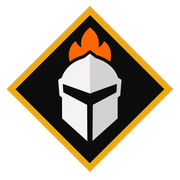
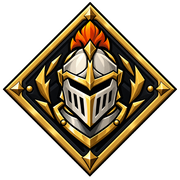
Use ornate knight emblem across the game

diff --git a/src/style.css b/src/style.css
@@ -25,21 +25,24 @@ button { color: inherit; }
 
 #loading { position: fixed; inset: 0; z-index: 100; display: grid; place-content: center; justify-items: center; gap: 22px; background: #08090a; transition: opacity .8s ease, visibility .8s; }
 #loading.ready { opacity: 0; visibility: hidden; }
-.loader-emblem, .crest { width: 64px; aspect-ratio: 1; display: grid; place-items: center; border: 1px solid #997343; transform: rotate(45deg); color: #eac68c; font-family: 'Cormorant Garamond', serif; font-weight: 700; font-size: 20px; }
-.loader-emblem::first-line, .crest { transform: rotate(45deg); }
+.loader-emblem { width: 88px; aspect-ratio: 1; object-fit: contain; filter: drop-shadow(0 10px 24px rgba(223,106,38,.32)); animation: emblem-pulse 1.8s ease-in-out infinite; }
 .loader-line { width: 210px; height: 1px; background: #2e2922; overflow: hidden; }
 .loader-line i { display: block; width: 40%; height: 100%; background: linear-gradient(90deg, transparent, var(--ember-bright), transparent); animation: load 1.6s infinite ease-in-out; }
 #loading span { color: #8d8375; font-size: 10px; letter-spacing: .34em; }
 @keyframes load { from { transform: translateX(-110%); } to { transform: translateX(360%); } }
+@keyframes emblem-pulse { 0%,100% { transform: scale(.96); opacity: .84; } 50% { transform: scale(1.04); opacity: 1; } }
 
 #landing { background: linear-gradient(90deg, rgba(4,5,5,.76), rgba(7,8,8,.15) 65%, rgba(4,5,5,.36)), radial-gradient(circle at 62% 42%, transparent, rgba(0,0,0,.38)); }
 .landing-vignette { position: absolute; inset: 0; box-shadow: inset 0 0 18vw 5vw #020303; pointer-events: none; }
-.landing-content { position: absolute; left: clamp(30px, 8vw, 160px); top: 50%; transform: translateY(-50%); width: min(700px, 84vw); text-shadow: 0 4px 30px #000; }
+.landing-content { position: absolute; left: clamp(30px, 8vw, 160px); top: 50%; transform: translateY(-50%); width: min(1120px, 88vw); text-shadow: 0 4px 30px #000; }
 .eyebrow { display: flex; align-items: center; gap: 12px; color: #c7a66d; font-size: 10px; font-weight: 700; letter-spacing: .36em; }
 .eyebrow span { display: inline-block; width: 42px; height: 1px; background: #9e7542; }
 h1 { margin: 19px 0 0; line-height: .72; font-family: 'Cormorant Garamond', Georgia, serif; letter-spacing: -.055em; }
 h1 small { display: block; color: #e4d8c5; font-size: clamp(48px, 6.6vw, 110px); font-weight: 500; }
 h1 strong { display: block; color: #f8f2e8; font-size: clamp(80px, 10vw, 174px); font-weight: 700; filter: drop-shadow(0 8px 14px #000); }
+.title-lockup { display: flex; align-items: center; gap: clamp(18px, 2.4vw, 42px); margin-top: 19px; }
+.title-lockup h1 { flex: 0 1 auto; margin: 0; }
+.brand-emblem { width: clamp(92px, 11vw, 174px); aspect-ratio: 1; flex: none; object-fit: contain; filter: drop-shadow(0 18px 35px rgba(0,0,0,.72)) drop-shadow(0 0 18px rgba(213,152,55,.18)); }
 .subtitle { margin: 20px 0 0 8px; color: #c99152; font-family: 'Cormorant Garamond', serif; font-size: 18px; letter-spacing: .72em; }
 .pitch { margin: 30px 0 36px; color: #c9c2b7; font-family: 'Cormorant Garamond', serif; font-size: clamp(18px, 1.5vw, 25px); line-height: 1.45; }
 .landing-actions { display: flex; flex-wrap: wrap; gap: 13px; max-width: 760px; }
@@ -119,7 +122,7 @@ input:focus, select:focus { border-color: #c18344; box-shadow: 0 0 0 2px rgba(19
 .citadel-team em { display: block; width: 100%; height: 100%; background: linear-gradient(90deg, #2874a8, #65c8ff); box-shadow: 0 0 9px #47baff; transition: width .25s; }
 .citadel-team.enemy em { margin-left: auto; background: linear-gradient(90deg, #ff705f, #a92c2c); box-shadow: 0 0 9px #ff4938; }
 .bars { position: absolute; left: 30px; bottom: max(30px, env(safe-area-inset-bottom)); display: flex; align-items: center; gap: 13px; filter: drop-shadow(0 3px 10px #000); }
-.crest { width: 42px; font-size: 13px; background: rgba(12,13,14,.8); }
+.crest { width: 48px; aspect-ratio: 1; object-fit: contain; filter: drop-shadow(0 3px 10px #000); }
 .bar-stack { width: min(280px, 36vw); display: grid; gap: 5px; }
 .health-bar, .stamina-bar { position: relative; height: 11px; overflow: hidden; transform: skewX(-17deg); background: rgba(4,5,5,.72); border: 1px solid rgba(255,255,255,.1); }
 .stamina-bar { width: 80%; height: 5px; }

diff --git a/index.html b/index.html
@@ -8,9 +8,13 @@
     <link rel="icon" type="image/png" sizes="32x32" href="/favicon-32x32.png" />
     <link rel="icon" type="image/png" sizes="16x16" href="/favicon-16x16.png" />
     <link rel="apple-touch-icon" sizes="180x180" href="/apple-touch-icon.png" />
+    <link rel="preload" as="image" href="/favicon.png" />
     <meta name="description" content="SMITE KNIGHT — сюжетные осады и масштабная война двух цитаделей прямо в браузере." />
     <meta property="og:title" content="SMITE KNIGHT — Ashen Siege" />
     <meta property="og:description" content="Прорви ворота, переживи град стрел и возьми Чёрную крепость." />
+    <meta property="og:image" content="https://smite.xedoc.ru/favicon.png" />
+    <meta name="twitter:card" content="summary" />
+    <meta name="twitter:image" content="https://smite.xedoc.ru/favicon.png" />
     <title>SMITE KNIGHT — Ashen Siege</title>
   </head>
   <body>
@@ -23,7 +27,10 @@
         <div class="landing-vignette"></div>
         <div class="landing-content">
           <div class="eyebrow"><span></span> БРАУЗЕРНАЯ ОСАДА <span></span></div>
-          <h1 id="game-title"><small>SMITE</small><strong>KNIGHT</strong></h1>
+          <div class="title-lockup">
+            <h1 id="game-title"><small>SMITE</small><strong>KNIGHT</strong></h1>
+            <img class="brand-emblem" src="/favicon.png" alt="" aria-hidden="true" />
+          </div>
           <p class="subtitle">ASHEN SIEGE</p>
           <p class="pitch">Проведи таран сквозь огонь. Сломай Чёрные врата.<br />Подними знамя там, где падали короли.</p>
           <div class="landing-actions">
@@ -86,7 +93,7 @@
           </div>
         </div>
         <div class="bars">
-          <div class="crest">SK</div>
+          <img class="crest" src="/favicon.png" alt="" aria-hidden="true" />
           <div class="bar-stack"><div class="health-bar"><i id="health-fill"></i><span id="health-text">180</span></div><div class="stamina-bar"><i id="stamina-fill"></i></div></div>
         </div>
         <div id="weapon-card"><span class="weapon-icon">⚔</span><div><b id="weapon-name">Меч пепла</b><small id="weapon-hint">Удерживайте ЛКМ — серия атак · ПКМ — блок</small></div></div>
@@ -119,7 +126,7 @@
         <div id="joystick"><i></i></div><button id="mobile-block">ЩИТ</button><button id="mobile-attack">УДАР</button><button id="mobile-dodge">↝</button>
       </div>
 
-      <div id="loading"><div class="loader-emblem">SK</div><div class="loader-line"><i></i></div><span>ОСНАЩАЕМ ЛЕГИОН</span></div>
+      <div id="loading"><img class="loader-emblem" src="/favicon.png" alt="" aria-hidden="true" /><div class="loader-line"><i></i></div><span>ОСНАЩАЕМ ЛЕГИОН</span></div>
     </div>
     <script type="module" src="/src/main.ts"></script>
   </body>

diff --git a/GENERATED_ASSETS.md b/GENERATED_ASSETS.md
@@ -33,12 +33,13 @@ inspection.
 
 ## Favicon
 
-The favicon was generated on 2026-08-29 with the built-in OpenAI image generation tool, then simplified
-and reviewed at its actual 16 px and 32 px sizes. The accepted mark uses a front-facing pale knight helmet,
-a black diamond shield with an antique-gold rim, and a single ember-orange crest. The final transparent
-source was resized with Lanczos filtering into `favicon-16x16.png`, `favicon-32x32.png`,
+The favicon and in-game brand emblem were generated on 2026-08-29 with the built-in OpenAI image generation
+tool and reviewed at their actual display sizes. The accepted detailed mark uses a front-facing pale knight
+helmet, layered black diamond shield, bright antique-gold armor and rim, and an ember-orange plume. The same
+transparent source is used on the landing screen, loading screen, HUD, social preview, and favicon exports.
+It was resized with Lanczos filtering into `favicon-16x16.png`, `favicon-32x32.png`,
 `apple-touch-icon.png`, and `favicon.png`; `favicon.ico` is the 32 px compatibility export.
 
-Final prompt summary: "A minimal, symmetrical front-facing knight helmet inside a rotated black diamond,
-with a thick antique-gold rim and a simple three-lobed ember-orange crest; flat vector-like raster shapes,
-high contrast, no text, and genuine transparency outside the diamond; readable at 16x16 and 32x32."
+Final prompt summary: "A polished dark-fantasy knight emblem: a symmetrical front-facing silver helmet in
+a layered black diamond shield, surrounded by bright antique-gold armor, rim and heraldic ornaments, with
+an ember-orange plume; centered, high contrast, no text, and genuine transparency outside the diamond."
